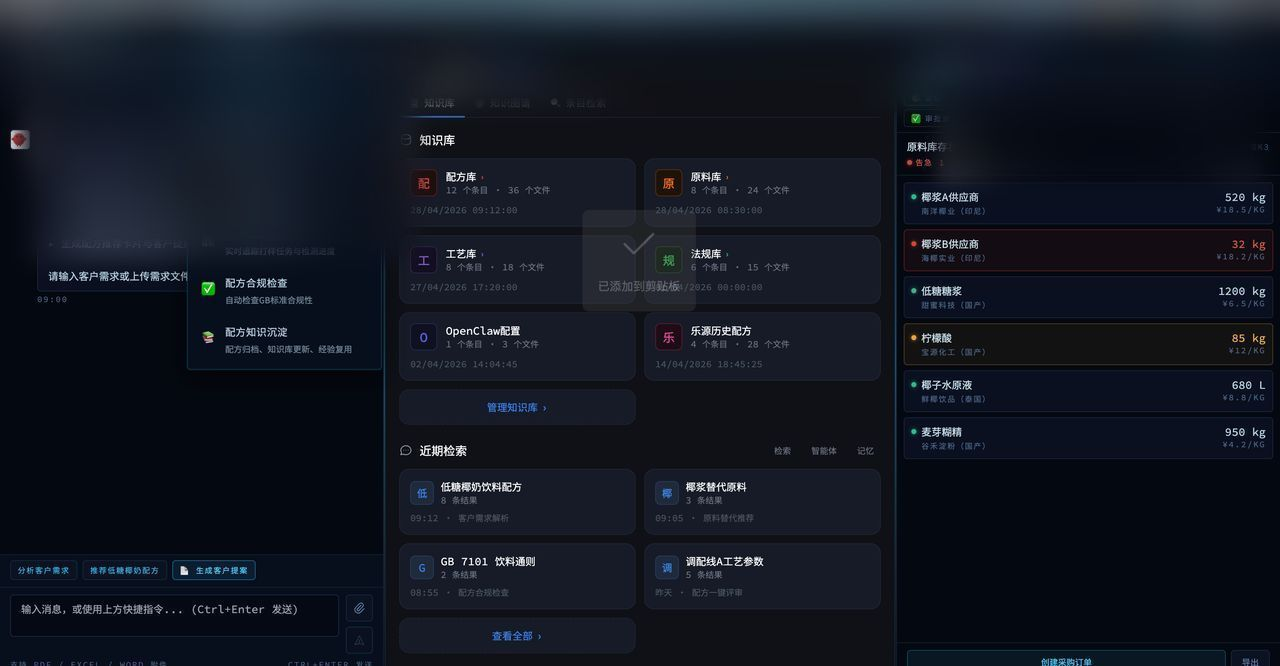
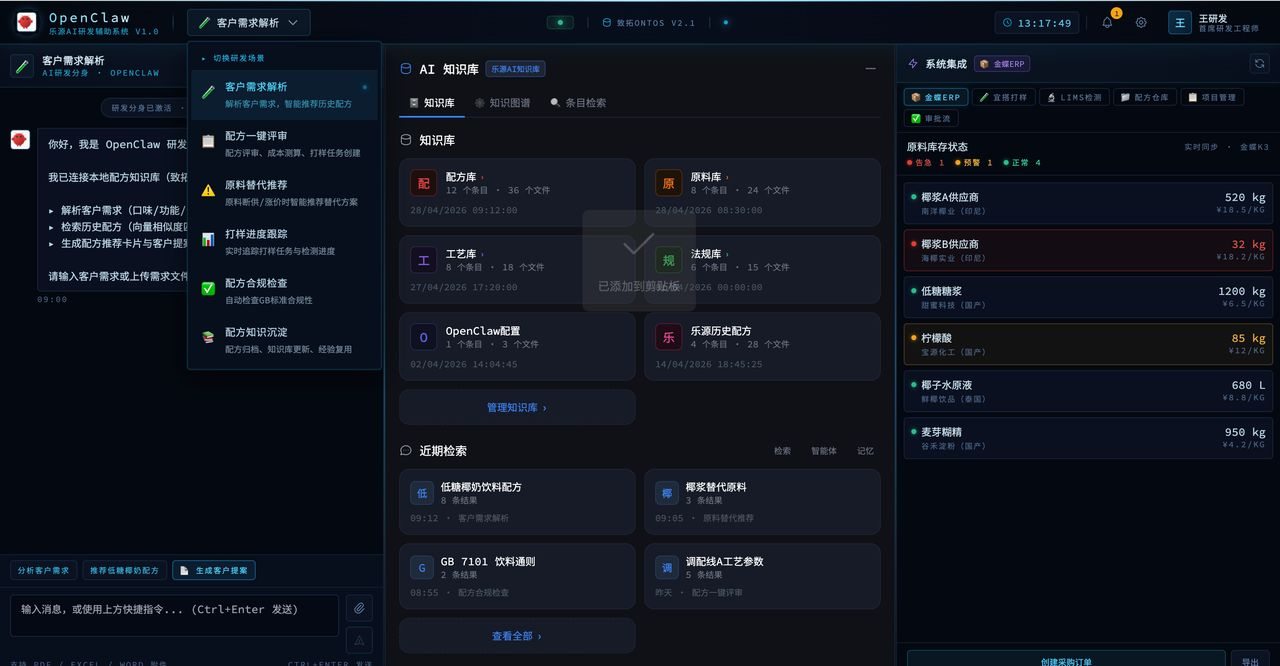
案例图更换为完整高清无遮挡原图（灯箱用高清源）

diff --git a/上海络蒙科技-AI落地展示页-浅色商务版.html b/上海络蒙科技-AI落地展示页-浅色商务版.html
@@ -692,52 +692,52 @@ button{font-family:inherit;cursor:pointer;border:none;background:none}
 <script>
 const CASES = {
   finance: { name: '财务 AI 数字分身', shots: [
-      { s: 'assets/web/digital-avatar-finance-overview.jpg', l: '产品介绍' },
-      { s: 'assets/web/digital-avatar-finance-dashboard.jpg', l: '财务仪表盘' },
-      { s: 'assets/web/digital-avatar-finance-process-01.jpg', l: '流程处理' },
-      { s: 'assets/web/digital-avatar-finance-process-02.jpg', l: '业务分析' },
-      { s: 'assets/web/digital-avatar-finance-process-03.jpg', l: '移动端问数' }
+      { s: 'assets/hd/digital-avatar-finance-overview.jpg', l: '产品介绍' },
+      { s: 'assets/hd/digital-avatar-finance-dashboard.jpg', l: '财务仪表盘' },
+      { s: 'assets/hd/digital-avatar-finance-process-01.jpg', l: '流程处理' },
+      { s: 'assets/hd/digital-avatar-finance-process-02.jpg', l: '业务分析' },
+      { s: 'assets/hd/digital-avatar-finance-process-03.jpg', l: '移动端问数' }
     ] },
   ecommerce: { name: '电商 OPERATOR 分身', shots: [
-      { s: 'assets/web/digital-avatar-ecommerce-dashboard.jpg', l: '全域驾驶舱' },
-      { s: 'assets/web/digital-avatar-ecommerce-incubation.jpg', l: '爆款孵化' }
+      { s: 'assets/hd/digital-avatar-ecommerce-dashboard.jpg', l: '全域驾驶舱' },
+      { s: 'assets/hd/digital-avatar-ecommerce-incubation.jpg', l: '爆款孵化' }
     ] },
   food: { name: '食品研发数字分身', shots: [
-      { s: 'assets/web/digital-avatar-food-knowledge.jpg', l: 'AI 知识库' },
-      { s: 'assets/web/digital-avatar-food-graph.jpg', l: '知识图谱' }
+      { s: 'assets/hd/digital-avatar-food-knowledge.jpg', l: 'AI 知识库' },
+      { s: 'assets/hd/digital-avatar-food-graph.jpg', l: '知识图谱' }
     ] },
   hr: { name: '人事招聘数字分身', shots: [
-      { s: 'assets/web/digital-avatar-hr-01.jpg', l: '招聘流程' },
-      { s: 'assets/web/digital-avatar-hr-02.jpg', l: '人才画像' },
-      { s: 'assets/web/digital-avatar-hr-03.jpg', l: '人事问答' }
+      { s: 'assets/hd/digital-avatar-hr-01.jpg', l: '招聘流程' },
+      { s: 'assets/hd/digital-avatar-hr-02.jpg', l: '人才画像' },
+      { s: 'assets/hd/digital-avatar-hr-03.jpg', l: '人事问答' }
     ] },
   production: { name: '生产制造数字分身', shots: [
-      { s: 'assets/web/digital-avatar-production-01.jpg', l: '生产总览' },
-      { s: 'assets/web/digital-avatar-production-02.jpg', l: '工单协同' },
-      { s: 'assets/web/digital-avatar-production-03.jpg', l: '质量分析' },
-      { s: 'assets/web/digital-avatar-production-04.jpg', l: '设备管理' },
-      { s: 'assets/web/digital-avatar-production-05.jpg', l: '现场看板' },
-      { s: 'assets/web/digital-avatar-production-06.jpg', l: '运营复盘' }
+      { s: 'assets/hd/digital-avatar-production-01.jpg', l: '生产总览' },
+      { s: 'assets/hd/digital-avatar-production-02.jpg', l: '工单协同' },
+      { s: 'assets/hd/digital-avatar-production-03.jpg', l: '质量分析' },
+      { s: 'assets/hd/digital-avatar-production-04.jpg', l: '设备管理' },
+      { s: 'assets/hd/digital-avatar-production-05.jpg', l: '现场看板' },
+      { s: 'assets/hd/digital-avatar-production-06.jpg', l: '运营复盘' }
     ] },
   ops: { name: '售后运维数字分身', shots: [
-      { s: 'assets/web/digital-avatar-after-sales-ops-01.jpg', l: '售后运维' }
+      { s: 'assets/hd/digital-avatar-after-sales-ops-01.jpg', l: '售后运维' }
     ] },
   retail: { name: '零售门店数字分身', shots: [
-      { s: 'assets/web/digital-avatar-retail-store-01.jpg', l: '门店经营' },
-      { s: 'assets/web/digital-avatar-retail-store-02.jpg', l: '终端运营' }
+      { s: 'assets/hd/digital-avatar-retail-store-01.jpg', l: '门店经营' },
+      { s: 'assets/hd/digital-avatar-retail-store-02.jpg', l: '终端运营' }
     ] },
   semi: { name: '半导体行业数字分身', shots: [
-      { s: 'assets/web/digital-avatar-semiconductor-01.jpg', l: '行业智脑' },
-      { s: 'assets/web/digital-avatar-semiconductor-02.jpg', l: '业务分析' }
+      { s: 'assets/hd/digital-avatar-semiconductor-01.jpg', l: '行业智脑' },
+      { s: 'assets/hd/digital-avatar-semiconductor-02.jpg', l: '业务分析' }
     ] },
   equip: { name: '装备制造数字分身', shots: [
-      { s: 'assets/web/digital-avatar-equipment-manufacturing-01.jpg', l: '项目看板' },
-      { s: 'assets/web/digital-avatar-equipment-manufacturing-02.jpg', l: '生产协同' },
-      { s: 'assets/web/digital-avatar-equipment-manufacturing-03.jpg', l: '经营分析' }
+      { s: 'assets/hd/digital-avatar-equipment-manufacturing-01.jpg', l: '项目看板' },
+      { s: 'assets/hd/digital-avatar-equipment-manufacturing-02.jpg', l: '生产协同' },
+      { s: 'assets/hd/digital-avatar-equipment-manufacturing-03.jpg', l: '经营分析' }
     ] },
   hospital: { name: '医院智脑数字分身', shots: [
-      { s: 'assets/web/digital-avatar-hospital-brain-01.jpg', l: '医院智脑' },
-      { s: 'assets/web/digital-avatar-hospital-brain-02.jpg', l: '运营分析' }
+      { s: 'assets/hd/digital-avatar-hospital-brain-01.jpg', l: '医院智脑' },
+      { s: 'assets/hd/digital-avatar-hospital-brain-02.jpg', l: '运营分析' }
     ] }
 };
 

diff --git a/上海络蒙科技-AI落地展示页.html b/上海络蒙科技-AI落地展示页.html
@@ -684,52 +684,52 @@ button{font-family:inherit;cursor:pointer;border:none;background:none}
 <script>
 const CASES = {
   finance: { name: '财务 AI 数字分身', shots: [
-      { s: 'assets/web/digital-avatar-finance-overview.jpg', l: '产品介绍' },
-      { s: 'assets/web/digital-avatar-finance-dashboard.jpg', l: '财务仪表盘' },
-      { s: 'assets/web/digital-avatar-finance-process-01.jpg', l: '流程处理' },
-      { s: 'assets/web/digital-avatar-finance-process-02.jpg', l: '业务分析' },
-      { s: 'assets/web/digital-avatar-finance-process-03.jpg', l: '移动端问数' }
+      { s: 'assets/hd/digital-avatar-finance-overview.jpg', l: '产品介绍' },
+      { s: 'assets/hd/digital-avatar-finance-dashboard.jpg', l: '财务仪表盘' },
+      { s: 'assets/hd/digital-avatar-finance-process-01.jpg', l: '流程处理' },
+      { s: 'assets/hd/digital-avatar-finance-process-02.jpg', l: '业务分析' },
+      { s: 'assets/hd/digital-avatar-finance-process-03.jpg', l: '移动端问数' }
     ] },
   ecommerce: { name: '电商 OPERATOR 分身', shots: [
-      { s: 'assets/web/digital-avatar-ecommerce-dashboard.jpg', l: '全域驾驶舱' },
-      { s: 'assets/web/digital-avatar-ecommerce-incubation.jpg', l: '爆款孵化' }
+      { s: 'assets/hd/digital-avatar-ecommerce-dashboard.jpg', l: '全域驾驶舱' },
+      { s: 'assets/hd/digital-avatar-ecommerce-incubation.jpg', l: '爆款孵化' }
     ] },
   food: { name: '食品研发数字分身', shots: [
-      { s: 'assets/web/digital-avatar-food-knowledge.jpg', l: 'AI 知识库' },
-      { s: 'assets/web/digital-avatar-food-graph.jpg', l: '知识图谱' }
+      { s: 'assets/hd/digital-avatar-food-knowledge.jpg', l: 'AI 知识库' },
+      { s: 'assets/hd/digital-avatar-food-graph.jpg', l: '知识图谱' }
     ] },
   hr: { name: '人事招聘数字分身', shots: [
-      { s: 'assets/web/digital-avatar-hr-01.jpg', l: '招聘流程' },
-      { s: 'assets/web/digital-avatar-hr-02.jpg', l: '人才画像' },
-      { s: 'assets/web/digital-avatar-hr-03.jpg', l: '人事问答' }
+      { s: 'assets/hd/digital-avatar-hr-01.jpg', l: '招聘流程' },
+      { s: 'assets/hd/digital-avatar-hr-02.jpg', l: '人才画像' },
+      { s: 'assets/hd/digital-avatar-hr-03.jpg', l: '人事问答' }
     ] },
   production: { name: '生产制造数字分身', shots: [
-      { s: 'assets/web/digital-avatar-production-01.jpg', l: '生产总览' },
-      { s: 'assets/web/digital-avatar-production-02.jpg', l: '工单协同' },
-      { s: 'assets/web/digital-avatar-production-03.jpg', l: '质量分析' },
-      { s: 'assets/web/digital-avatar-production-04.jpg', l: '设备管理' },
-      { s: 'assets/web/digital-avatar-production-05.jpg', l: '现场看板' },
-      { s: 'assets/web/digital-avatar-production-06.jpg', l: '运营复盘' }
+      { s: 'assets/hd/digital-avatar-production-01.jpg', l: '生产总览' },
+      { s: 'assets/hd/digital-avatar-production-02.jpg', l: '工单协同' },
+      { s: 'assets/hd/digital-avatar-production-03.jpg', l: '质量分析' },
+      { s: 'assets/hd/digital-avatar-production-04.jpg', l: '设备管理' },
+      { s: 'assets/hd/digital-avatar-production-05.jpg', l: '现场看板' },
+      { s: 'assets/hd/digital-avatar-production-06.jpg', l: '运营复盘' }
     ] },
   ops: { name: '售后运维数字分身', shots: [
-      { s: 'assets/web/digital-avatar-after-sales-ops-01.jpg', l: '售后运维' }
+      { s: 'assets/hd/digital-avatar-after-sales-ops-01.jpg', l: '售后运维' }
     ] },
   retail: { name: '零售门店数字分身', shots: [
-      { s: 'assets/web/digital-avatar-retail-store-01.jpg', l: '门店经营' },
-      { s: 'assets/web/digital-avatar-retail-store-02.jpg', l: '终端运营' }
+      { s: 'assets/hd/digital-avatar-retail-store-01.jpg', l: '门店经营' },
+      { s: 'assets/hd/digital-avatar-retail-store-02.jpg', l: '终端运营' }
     ] },
   semi: { name: '半导体行业数字分身', shots: [
-      { s: 'assets/web/digital-avatar-semiconductor-01.jpg', l: '行业智脑' },
-      { s: 'assets/web/digital-avatar-semiconductor-02.jpg', l: '业务分析' }
+      { s: 'assets/hd/digital-avatar-semiconductor-01.jpg', l: '行业智脑' },
+      { s: 'assets/hd/digital-avatar-semiconductor-02.jpg', l: '业务分析' }
     ] },
   equip: { name: '装备制造数字分身', shots: [
-      { s: 'assets/web/digital-avatar-equipment-manufacturing-01.jpg', l: '项目看板' },
-      { s: 'assets/web/digital-avatar-equipment-manufacturing-02.jpg', l: '生产协同' },
-      { s: 'assets/web/digital-avatar-equipment-manufacturing-03.jpg', l: '经营分析' }
+      { s: 'assets/hd/digital-avatar-equipment-manufacturing-01.jpg', l: '项目看板' },
+      { s: 'assets/hd/digital-avatar-equipment-manufacturing-02.jpg', l: '生产协同' },
+      { s: 'assets/hd/digital-avatar-equipment-manufacturing-03.jpg', l: '经营分析' }
     ] },
   hospital: { name: '医院智脑数字分身', shots: [
-      { s: 'assets/web/digital-avatar-hospital-brain-01.jpg', l: '医院智脑' },
-      { s: 'assets/web/digital-avatar-hospital-brain-02.jpg', l: '运营分析' }
+      { s: 'assets/hd/digital-avatar-hospital-brain-01.jpg', l: '医院智脑' },
+      { s: 'assets/hd/digital-avatar-hospital-brain-02.jpg', l: '运营分析' }
     ] }
 };
 
